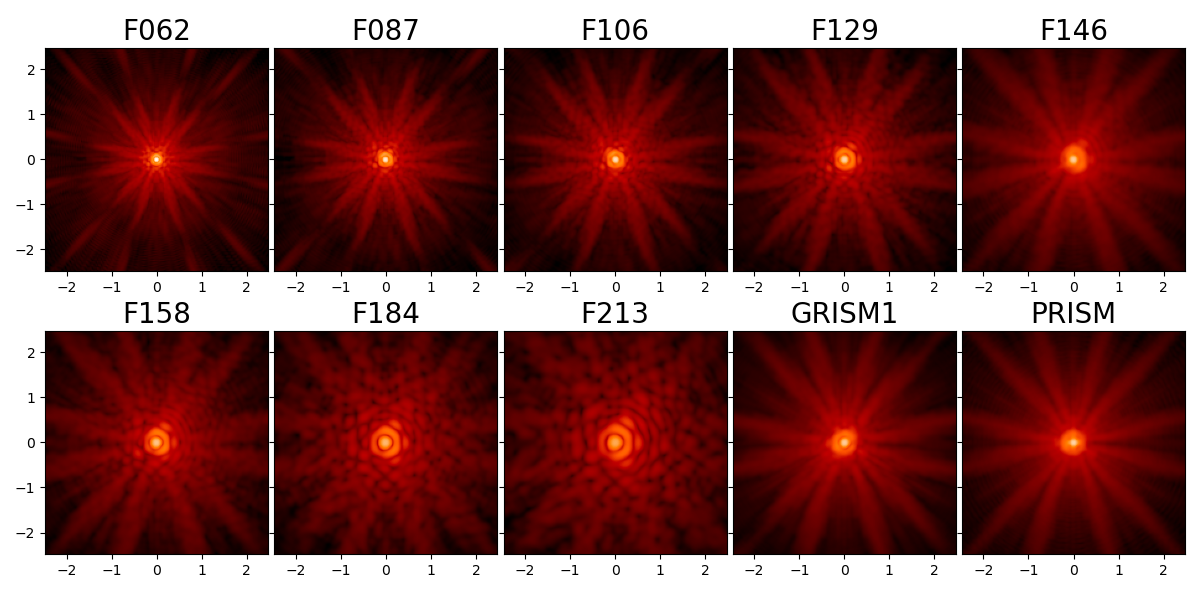
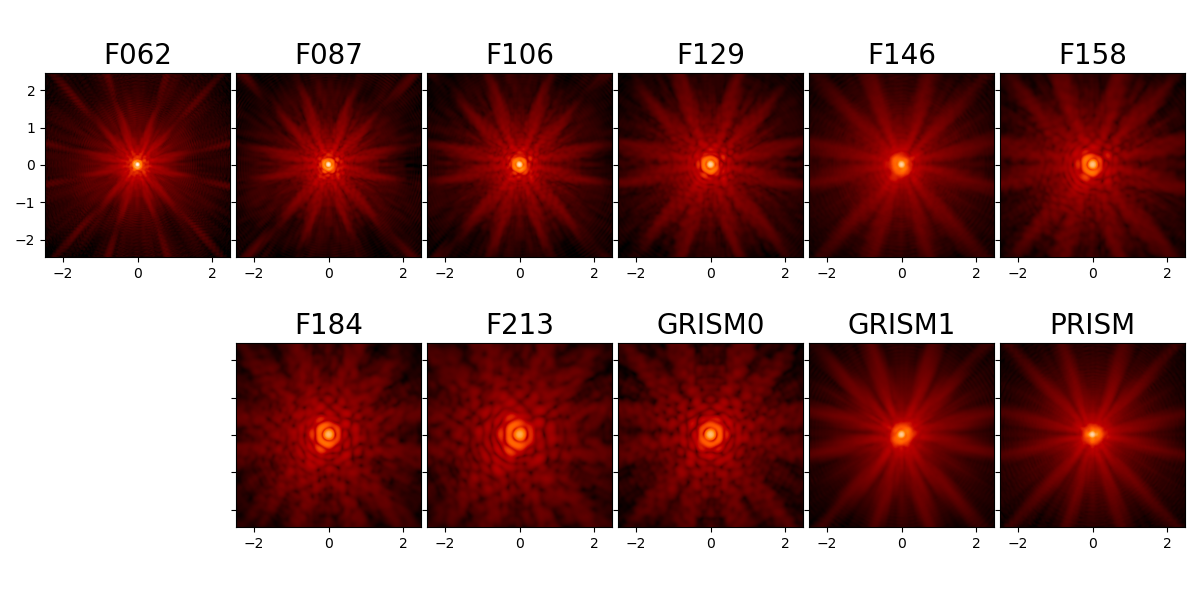
Updated Roman documentation images and how-tos

diff --git a/docs/roman_figures/how_tos.py b/docs/roman_figures/how_tos.py
@@ -1,22 +1,20 @@
 import matplotlib.pyplot as plt
-from webbpsf import roman
+from webbpsf import display_psf, roman
 
 #### Create webbpsf-roman_page_header.png
 wfi = roman.WFI()
 
-# UNRESOLVED: GRISM0 errors out. poppy's Instrument._get_weights()
-# drops wavelengths with throughputs <0.4. GRISM0's peak is well
-# below 0.1 and numpy won't take the min/max of an empty array.
-filters_no_grism0 = [f for f in wfi.filter_list if f != 'GRISM0']
+all_filters = [f for f in wfi.filter_list]
 
-long = 5 # should be 6 if GRISM0 is included
+long = 6
 wide = 2
 
 fig, axs = plt.subplots(wide, long, figsize=(12, 6), sharey=True)
 
-for i, filter in enumerate(sorted(filters_no_grism0)):
+for i, filter in enumerate(sorted(all_filters)):
     r = int(np.floor(i / long))
-    c = i % long
+    c = (i % long if i < long
+         else (i % long) + 1) # remove else for left-justified bottom row
     ax = axs[r][c]
 
     wfi.filter = filter
@@ -29,14 +27,13 @@ for i, filter in enumerate(sorted(filters_no_grism0)):
     ax.yaxis.label.set_visible(False)
 
 
-#axs[-1][-1].remove() # uncomment if GRISM0 is included again
+axs[-1][0].remove() # change last index to -1 to justify left
 
 fig.tight_layout(w_pad=.1, h_pad=0)
 fig.tight_layout(w_pad=.1, h_pad=0) # calling twice somehow tightens h_pad
-#fig.savefig('webbpsf-roman_page_header.png', dpi=100, facecolor='w')
+# fig.savefig('webbpsf-roman_page_header.png', dpi=100, facecolor='w')
 
 #### Create compare_wfi_sca09_sca17.png
-
 wfi2 = roman.WFI()
 wfi2.filter = 'F129'
 wfi2.detector = 'SCA09'
@@ -55,4 +52,13 @@ webbpsf.display_psf(psf_sca17, ax=ax_sca17, imagecrop=2.0,
 webbpsf.display_psf_difference(psf_sca09, psf_sca17, ax=ax_diff,
                                vmax=5e-3, title='SCA09 - SCA17', imagecrop=2.0)
 fig2.tight_layout(w_pad=.5)
-#fig2.savefig('compare_wfi_sca09_sca17.png', dpi=100, facecolor='w')
+# fig2.savefig('compare_wfi_sca09_sca17.png', dpi=100, facecolor='w')
+
+
+#### Create fig_coronagraph_spc_f770.png
+cor = roman.RomanCoronagraph()
+cor.mode = "CHARSPC_F770"
+
+fig, ax = plt.subplots(figsize=(8,7))
+mono_char_spc_psf = cor.calc_psf(nlambda=1, fov_arcsec=1.6, display=True)
+# fig.savefig('fig_coronagraph_spc_f770.png', dpi=100, facecolor='w')
